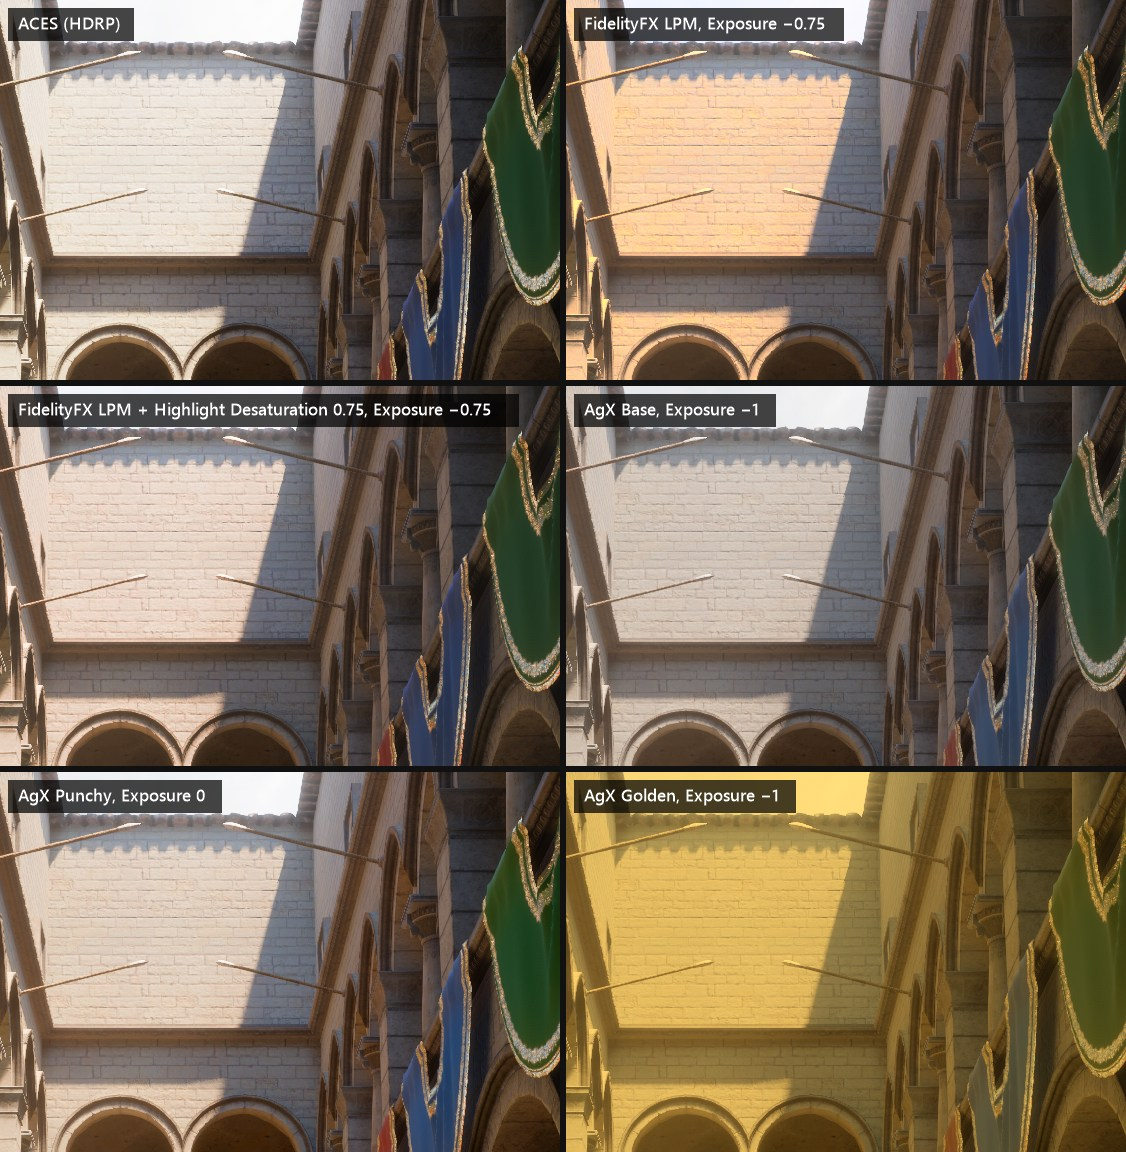
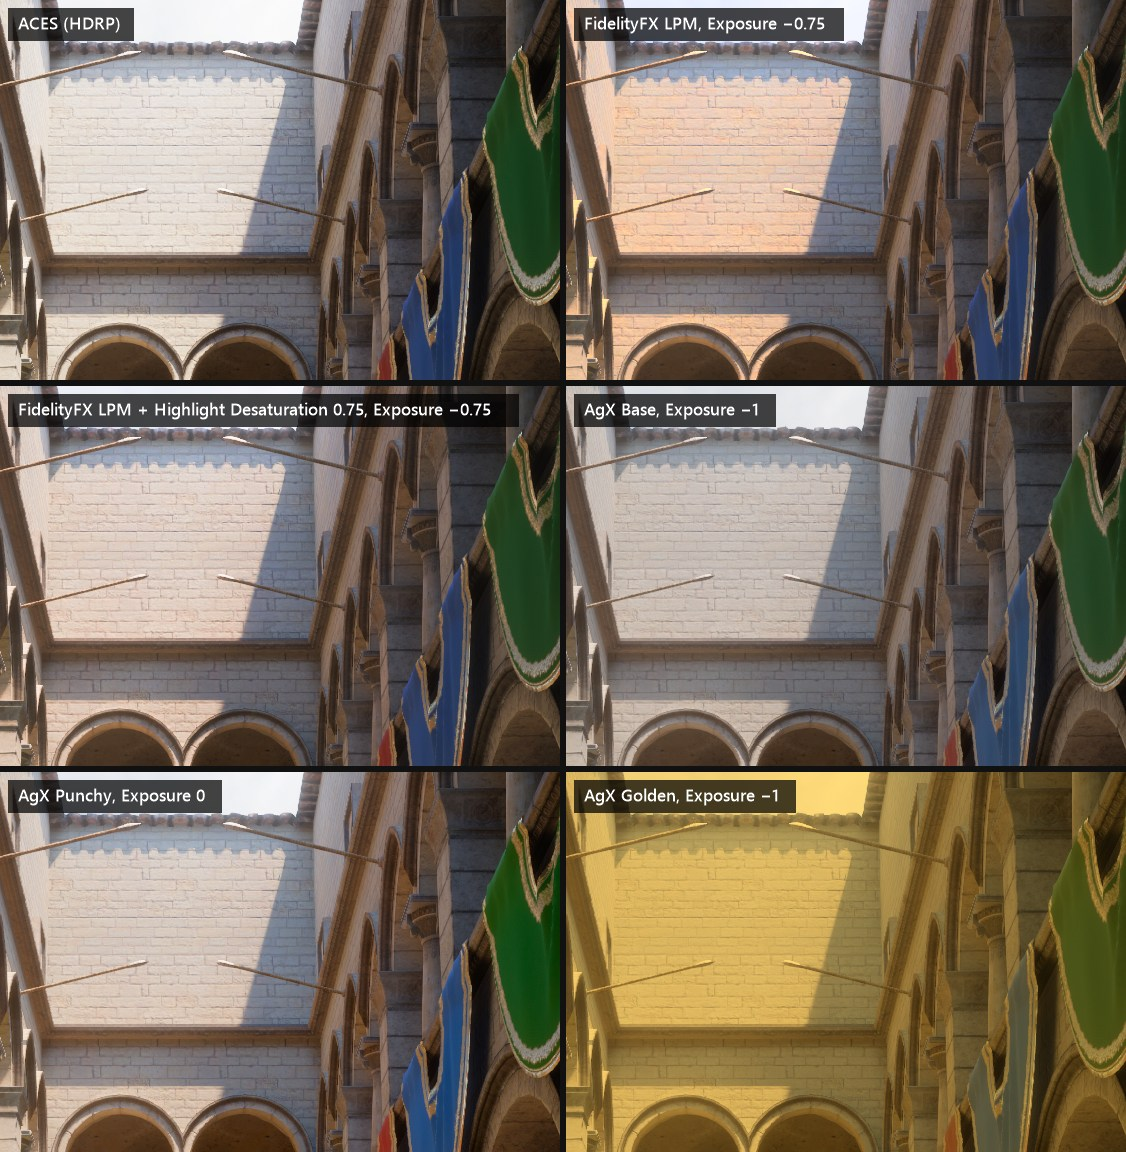
Regenerate comparison images and add the OPT preset comparison
Recaptured with the rebalanced Sponza lighting. New comparison-opt.jpg compares the tuned LPM preset (OPT) with ACES, LPM + Highlight Desaturation and AgX Base, full frame and close-up, with its settings listed in the README.

diff --git a/README.md b/README.md
@@ -9,7 +9,7 @@ Both replace HDRP's own Tonemapping. Use one of them at a time.
 
 ## Comparison
 
-These images show the Classic Sponza scene in the same frame. The HDRP settings come from the scene's profile (auto exposure, white balance, and color grading), and only the tonemapper changes. LPM and AgX use a lower exposure to roughly match ACES brightness.
+These images show the Classic Sponza scene in the same frame. The HDRP settings come from the scene's profile (auto exposure, indirect lighting, and color grading), and only the tonemapper changes. Each tonemapper uses its default settings except for the ones in the labels. LPM and AgX use a lower exposure to roughly match ACES brightness.
 
 ![ACES, FidelityFX LPM, LPM with Highlight Desaturation, AgX Base, AgX Punchy and AgX Golden in the Sponza atrium](Documentation~/images/comparison.jpg)
 
@@ -20,6 +20,22 @@ Close-up of the sunlit wall:
 - **ACES** desaturates highlights towards white.
 - **FidelityFX LPM** keeps the hue and saturation of highlights, so warm sunlight on a warm surface stays orange. Highlight Desaturation pulls it towards white, close to ACES.
 - **AgX** goes towards white on its own, with softer contrast. Punchy adds contrast and saturation, and Golden is a strong warm grade.
+
+### Tuned LPM preset
+
+`OPT` is a FidelityFX LPM setup tuned for this scene. The image compares it with ACES, LPM with Highlight Desaturation, and AgX Base: full frames on top and sunlit-wall close-ups below.
+
+| Setting | Value |
+|---|---|
+| Exposure | −0.65 EV |
+| Curve Exposure | 6.05 (HDR Maximum 64) |
+| Contrast / Shoulder Contrast | 0.35 / 1.05 |
+| Saturation | (0.1, −0.1, 0) |
+| Crosstalk | (1, 1, 1/128) |
+| Highlight Desaturation / Start | 0.7 / 0.3 |
+| HDRP Color Adjustments: Saturation | −10 |
+
+![ACES, LPM with Highlight Desaturation, AgX Base and the OPT preset, full frame and sunlit wall close-up](Documentation~/images/comparison-opt.jpg)
 
 ## Requirements
 
